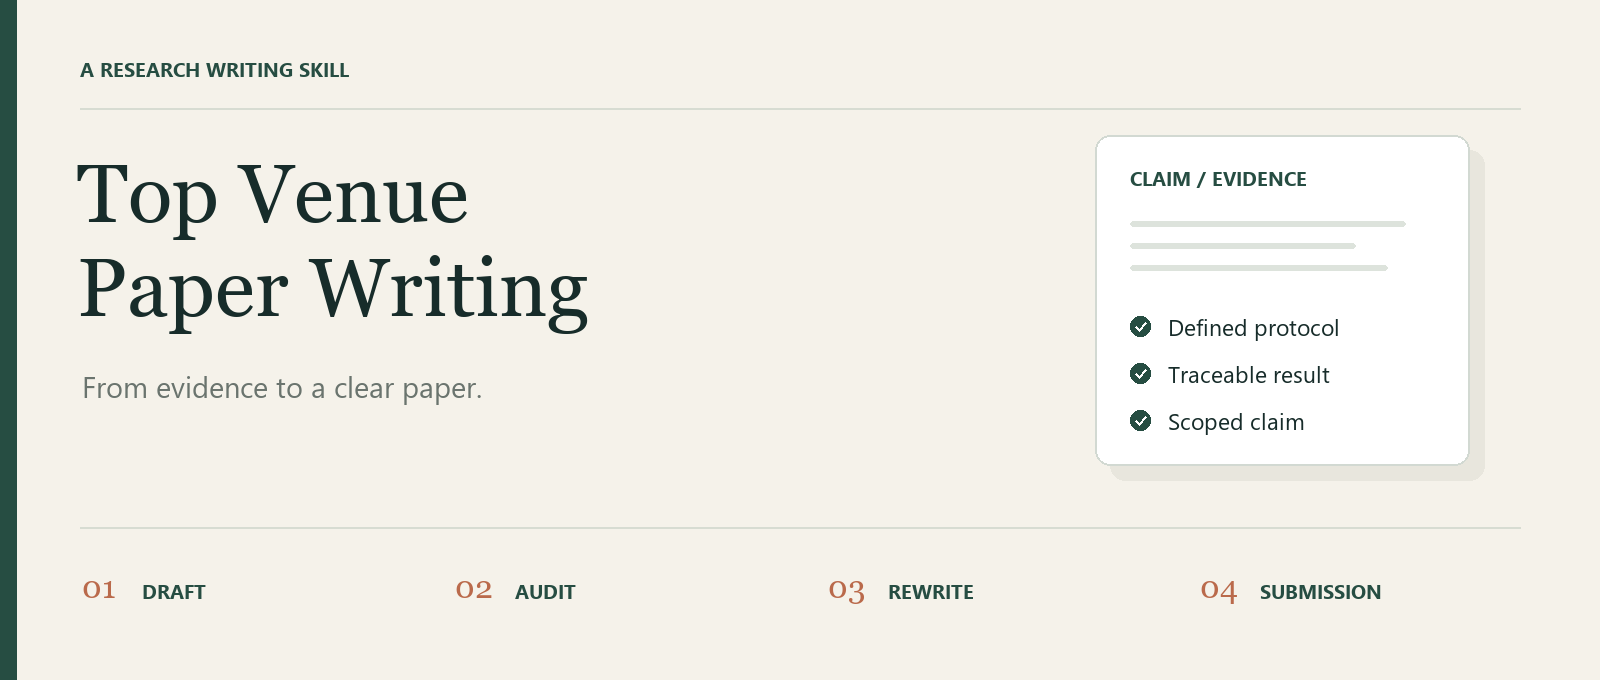
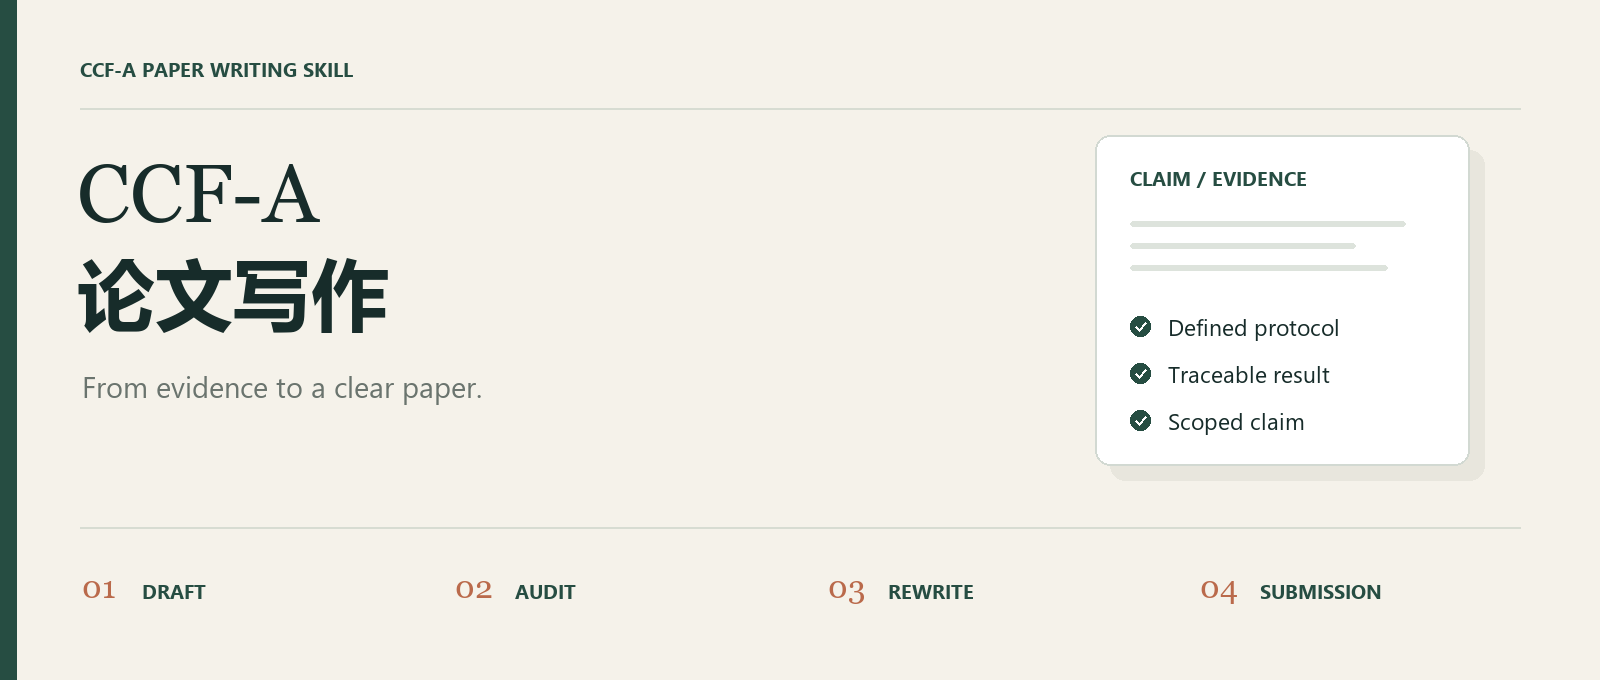
Rebrand as CCF-A paper writing

Changed region(s): [[0.0312, 0.2162, 0.375, 0.4941], [0.0312, 0.0926, 0.2188, 0.1235]]

diff --git a/README.md b/README.md
@@ -1,24 +1,24 @@
-<p align="center"><img src="assets/banner.png" alt="Top Venue Paper Writing — From evidence to a clear paper" width="100%"></p>
+<p align="center"><img src="assets/banner.png" alt="CCF-A Paper Writing — From evidence to a clear paper" width="100%"></p>
 
 <p align="center">
   <a href="https://github.com/Shu-yin0/top-venue-paper-writing/actions/workflows/ci.yml"><img src="https://github.com/Shu-yin0/top-venue-paper-writing/actions/workflows/ci.yml/badge.svg?branch=main" alt="Checks"></a>
   <a href="LICENSE"><img src="https://img.shields.io/badge/license-MIT-264D42?style=flat-square" alt="MIT license"></a>
-  <a href="https://github.com/Shu-yin0/top-venue-paper-writing/releases"><img src="https://img.shields.io/badge/release-v1.1.0-264D42?style=flat-square" alt="Latest release"></a>
+  <a href="https://github.com/Shu-yin0/top-venue-paper-writing/releases"><img src="https://img.shields.io/badge/release-v1.1.1-264D42?style=flat-square" alt="Latest release"></a>
   <img src="https://img.shields.io/badge/Python-3.8%2B-264D42?style=flat-square" alt="Python 3.8 or newer">
 </p>
 
 <p align="center"><b>English</b> · <a href="README.zh-CN.md">简体中文</a></p>
 <p align="center"><a href="#quick-start">Quick start</a> · <a href="#four-ways-to-use-it">Workflows</a> · <a href="docs/paperlint.md">CLI guide</a> · <a href="examples/rewrites.md">Before & after</a></p>
 
-# Top Venue Paper Writing
+# CCF-A Paper Writing
 
 **Turn experimental evidence into a clear, defensible ML paper.**
 
-An agent skill for drafting, rewriting and auditing empirical ML papers in the style of CVPR, ICCV, ICLR and NeurIPS. Start with a claim ledger, work through the sections that need attention, and finish with repeatable submission checks.
+An agent skill for drafting, rewriting and auditing papers targeting CCF-A conferences and journals, with a current focus on empirical machine learning and computer vision. Start with a claim ledger, work through the sections that need attention, and finish with repeatable submission checks.
 
 Use it in **Codex or Claude Code**, or read the checklists without an agent. The writing guides support English and Chinese; the optional linter focuses on English prose and LaTeX/Markdown source. No API key or third-party Python package is required by the included scripts.
 
-> A writing workflow, not an acceptance guarantee. Not affiliated with or endorsed by the venues above. Current venue rules take precedence over the suggested defaults.
+> A writing workflow, not an acceptance guarantee. Not affiliated with or endorsed by CCF or any venue. Current venue rules take precedence over the suggested defaults.
 
 ## What makes it useful
 

diff --git a/README.zh-CN.md b/README.zh-CN.md
@@ -1,20 +1,20 @@
-<p align="center"><img src="assets/banner.png" alt="Top Venue Paper Writing — 从实验依据到清晰的论文" width="100%"></p>
+<p align="center"><img src="assets/banner.png" alt="CCF-A 论文写作 — 从实验依据到清晰的论文" width="100%"></p>
 
 <p align="center">
   <a href="https://github.com/Shu-yin0/top-venue-paper-writing/actions/workflows/ci.yml"><img src="https://github.com/Shu-yin0/top-venue-paper-writing/actions/workflows/ci.yml/badge.svg?branch=main" alt="自动检查"></a>
   <a href="LICENSE"><img src="https://img.shields.io/badge/license-MIT-264D42?style=flat-square" alt="MIT 许可"></a>
-  <a href="https://github.com/Shu-yin0/top-venue-paper-writing/releases"><img src="https://img.shields.io/badge/release-v1.1.0-264D42?style=flat-square" alt="最新版本"></a>
+  <a href="https://github.com/Shu-yin0/top-venue-paper-writing/releases"><img src="https://img.shields.io/badge/release-v1.1.1-264D42?style=flat-square" alt="最新版本"></a>
   <img src="https://img.shields.io/badge/Python-3.8%2B-264D42?style=flat-square" alt="Python 3.8 及以上">
 </p>
 
 <p align="center"><a href="README.md">English</a> · <b>简体中文</b></p>
 <p align="center"><a href="#快速开始">快速开始</a> · <a href="#四种工作模式">工作模式</a> · <a href="docs/prompts.md">提示词示例</a> · <a href="examples/rewrites.md">改写示例</a></p>
 
-# Top Venue Paper Writing
+# CCF-A 论文写作
 
 **把实验依据，写成主张清楚、证据扎实的机器学习论文。**
 
-一个面向 CVPR、ICCV、ICLR、NeurIPS 风格实证论文的写作 Skill。它从「主张—证据台账」出发，按需处理各个章节，最后用可重复运行的检查辅助投稿准备。
+一个面向 CCF-A 会议与期刊投稿的论文写作 Skill，当前重点支持机器学习与计算机视觉领域的实证论文。它从「主张—证据台账」出发，按需处理各个章节，最后用可重复运行的检查辅助投稿准备。
 
 支持 **Codex 与 Claude Code**，也可以直接当作人工写作检查清单使用。写作指南适用于中文和英文；附带的检查工具主要面向英文及 LaTeX/Markdown 源文件。脚本无需 API Key，无需第三方 Python 依赖。
 

diff --git a/SKILL.md b/SKILL.md
@@ -1,9 +1,9 @@
 ---
 name: top-venue-paper-writing
-description: Draft, rewrite or audit empirical ML papers for CVPR, ICCV, ICLR and NeurIPS-style venues. Use for evidence-backed claims, section editing, whole-paper review and submission writing checks in English or Chinese.
+description: Draft, rewrite or audit papers targeting CCF-A conferences and journals, focusing on empirical machine learning and computer vision. Use for evidence-backed claims, section editing, whole-paper review and submission writing checks in English or Chinese.
 ---
 
-# Top-venue paper writing
+# CCF-A 论文写作 / CCF-A Paper Writing
 
 A working method for empirical ML papers: a claim ledger first, then section checklists with templates, then a whole-paper pass and scripted submission checks. English or Chinese text; the rules do not depend on the language. Provenance and how far to trust the rules: `references/sources-and-evidence.md`.
 

diff --git a/CHANGELOG.md b/CHANGELOG.md
@@ -1,5 +1,10 @@
 # Changelog
 
+## 1.1.1 - 2026-10-29
+- Rename the public-facing product to CCF-A Paper Writing / CCF-A 论文写作 across the cover, READMEs and Codex display metadata.
+- Clarify the current empirical ML/computer-vision focus; preserve the repository URL, skill identifier and installation commands.
+
+
 ## 1.1.0 - 2026-10-29
 - Add bilingual repository pages, custom artwork, copy-ready prompts and focused CLI documentation.
 - Add Codex UI metadata and a dependency-free installer with preview and overwrite protection.
